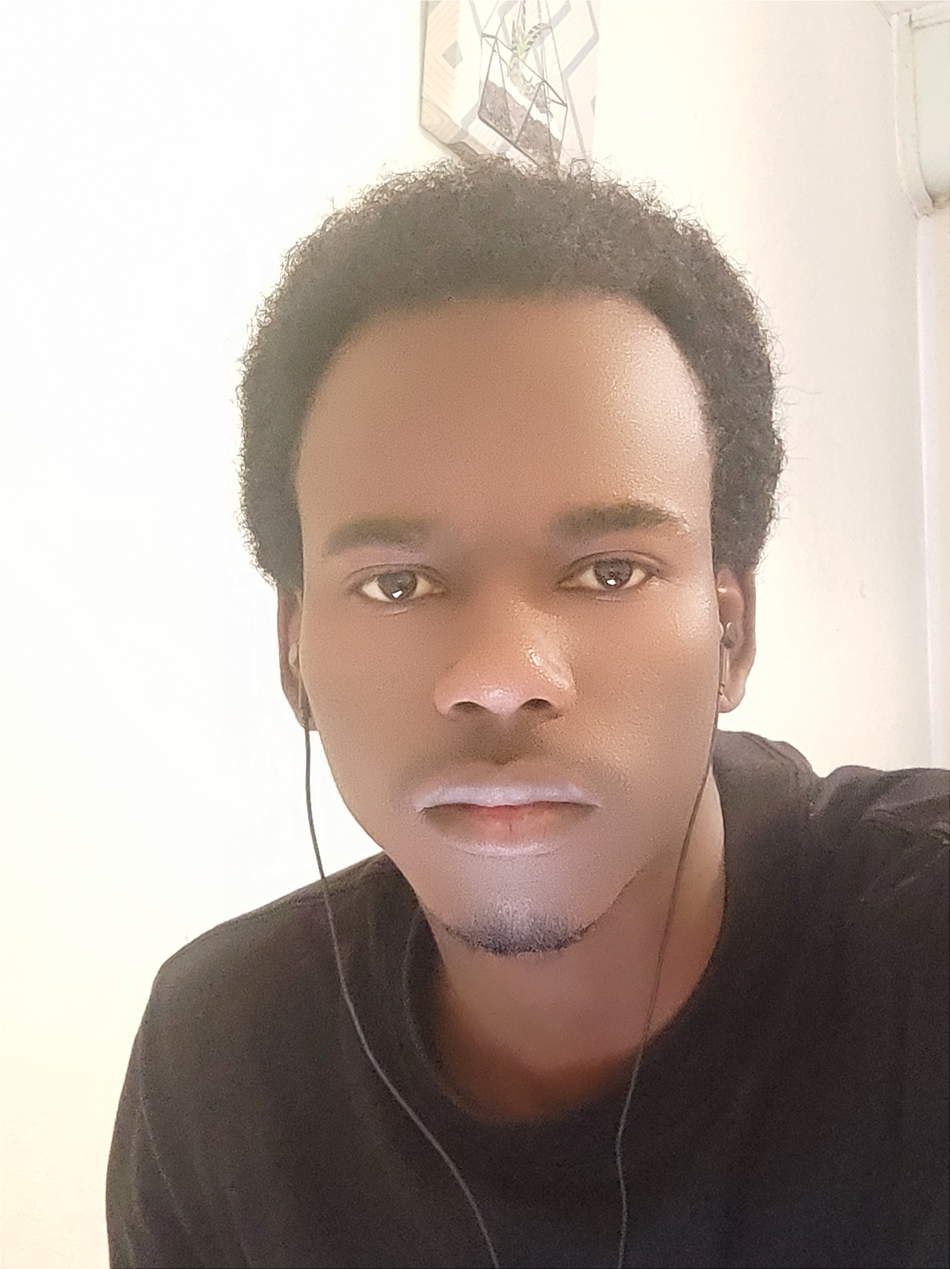
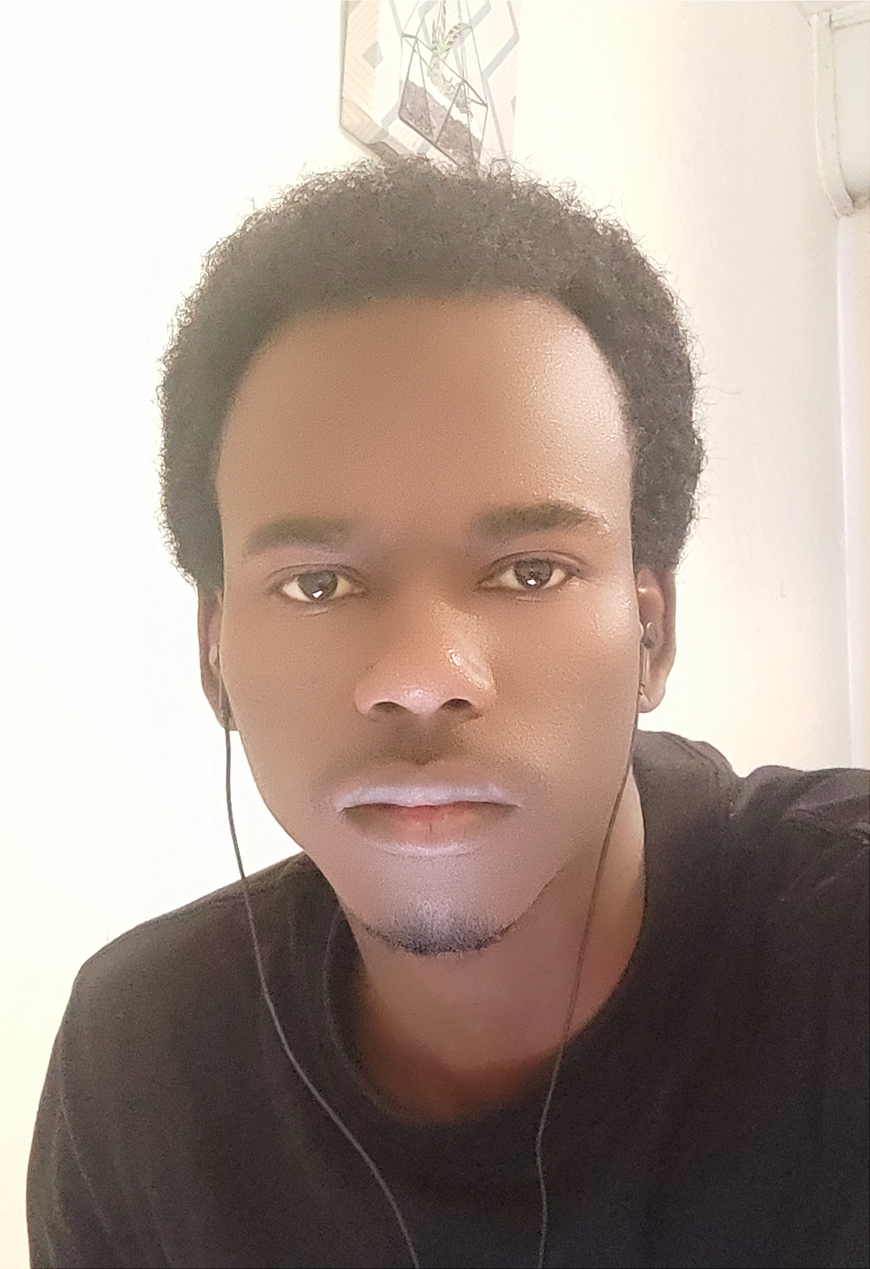
29

diff --git a/docs/about.html b/docs/about.html
@@ -227,7 +227,7 @@ window.Quarto = {
     
 <!-- main -->
 <div class="quarto-about-jolla">
-  <img src="Profile.jpg" class="about-image
+  <img src="profile.jpg" class="about-image
   round " style="height: 15em; width: 15em;">
  <main class="content" id="quarto-document-content">
 <p>Moi c’est <strong>Yéro Diamanka</strong>, étudiant à <strong>l’université de Montpellier.</strong></p>
